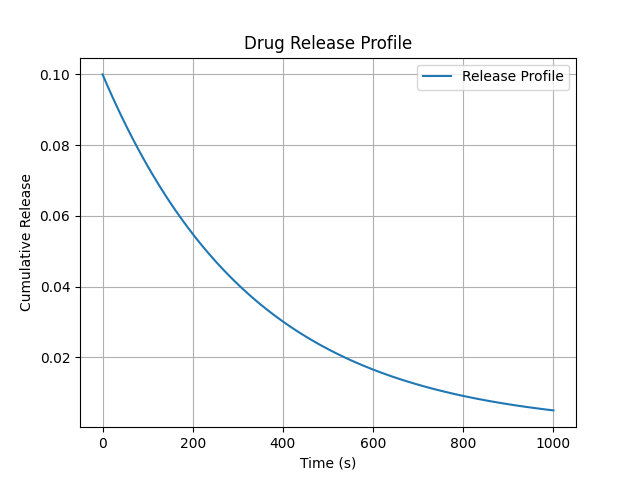
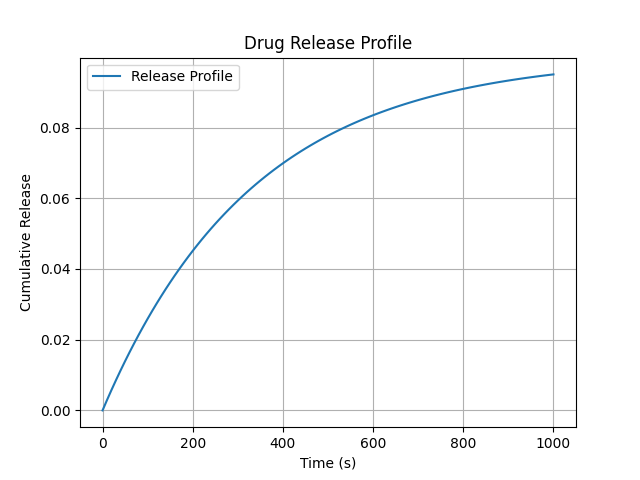
add tests

diff --git a/tests/test_first_order.py b/tests/test_first_order.py
@@ -1,0 +1,113 @@
+"""Tests for the first-order model implementation in drux package."""
+
+from pytest import raises
+from unittest import mock
+from numpy import isclose
+from re import escape
+from math import exp
+from drux import FirstOrderModel
+
+TEST_CASE_NAME = "first-order model tests"
+M0, k = 0.1, 0.003
+SIM_DURATION, SIM_TIME_STEP = 1000, 10
+RELATIVE_TOLERANCE = 1e-1
+
+
+def test_first_order_parameters():
+    model = FirstOrderModel(M0=M0, k=k)
+    assert model.params.M0 == M0
+    assert model.params.k == k
+
+def test_invalid_parameters():
+    with raises(ValueError, match=escape("Initial amount of drug in the solution (M0) must be non-negative.")):
+        FirstOrderModel(M0=-M0, k=k).simulate(duration=SIM_DURATION, time_step=SIM_TIME_STEP)
+
+    with raises(ValueError, match=escape("Release rate (k) must be non-negative.")):
+        FirstOrderModel(M0=M0, k=-k).simulate(duration=SIM_DURATION, time_step=SIM_TIME_STEP)
+
+
+def test_first_order_simulation():  # Reference: https://europepmc.org/article/pmc/3425064
+    model = FirstOrderModel(M0=M0, k=k)
+    profile = model.simulate(duration=SIM_DURATION, time_step=SIM_TIME_STEP)
+    actual_release = [M0 * (1 - exp(-k*t)) for t in range(0, 1001, 10)]
+    assert all(isclose(p, a, rtol=RELATIVE_TOLERANCE) for p, a in zip(profile, actual_release))
+
+
+def test_first_order_simulation_errors():
+    model = FirstOrderModel(M0=M0, k=k)
+
+    with raises(ValueError, match="Duration and time step must be positive values"):
+        model.simulate(duration=-100, time_step=10)
+
+    with raises(ValueError, match="Duration and time step must be positive values"):
+        model.simulate(duration=100, time_step=-10)
+
+    with raises(ValueError, match="Time step cannot be greater than duration"):
+        model.simulate(duration=10, time_step=20)
+
+
[email redacted]("matplotlib.pyplot.subplots")
+def test_first_order_plot(mock_subplots: mock.MagicMock):
+    mock_subplots.return_value = (mock.MagicMock(), mock.MagicMock())
+    model = FirstOrderModel(M0=M0, k=k)
+    model.simulate(duration=SIM_DURATION, time_step=SIM_TIME_STEP)
+
+    fig, ax = model.plot()
+    assert fig is not None
+    assert ax is not None
+    mock_subplots.assert_called_once()
+
+
+def test_first_order_plot_error():
+    model = FirstOrderModel(M0=M0, k=k)
+
+    with raises(ValueError, match=escape("No simulation data available. Run simulate() first.")):
+        model.plot()
+
+    model.time_points = [0]  # manually set time points to simulate error (TODO: it will be caught with prior errors)
+    # manually set a too short profile to simulate error (TODO: it will be caught with prior errors)
+    model.release_profile = [0.0]
+    with raises(ValueError, match="Release profile is too short to calculate release rate."):
+        model.plot()
+
+
+def test_first_order_release_rate():  # Reference: https://www.wolframalpha.com/input?i=get+the+derivative+of+M0*exp%28-k*t%29+with+respect+to+t
+    model = FirstOrderModel(M0=M0, k=k)
+    model.simulate(duration=SIM_DURATION, time_step=SIM_TIME_STEP)
+    rate = model.get_release_rate()
+    actual_rate = [k*M0*exp(-k*t) for t in range(0, 1001, 10)]
+    assert all(isclose(r, a, rtol=1e-1) for r, a in zip(rate, actual_rate))
+
+
+def test_first_order_release_rate_error():
+    model = FirstOrderModel(M0=M0, k=k)
+
+    with raises(ValueError, match=escape("No simulation data available. Run simulate() first.")):
+        model.get_release_rate()
+
+    model.time_points = [0]  # manually set time points to simulate error (TODO: it will be caught with prior errors)
+    # manually set a too short profile to simulate error (TODO: it will be caught with prior errors)
+    model.release_profile = [0.0]
+    with raises(ValueError, match="Release profile is too short to calculate release rate."):
+        model.get_release_rate()
+
+
+def test_first_order_time_for_release():  # Reference: https://www.wolframalpha.com/input?i=solve+for+t+in+0.1+*+%281+-+exp%28-0.003*t%29%29+%3D+0.5*+0.1+*+%281-+exp%28-0.003*1000%29%29
+    model = FirstOrderModel(M0=M0, k=k)
+    model.simulate(duration=SIM_DURATION, time_step=SIM_TIME_STEP)
+    tx = model.time_for_release(0.5 * model.release_profile[-1])
+    assert isclose(tx, 220, rtol=1e-2)
+
+
+def test_first_order_time_for_release_error():
+    model = FirstOrderModel(M0=M0, k=k)
+
+    with raises(ValueError, match=escape("No simulation data available. Run simulate() first.")):
+        model.time_for_release(0.5)
+    model.simulate(duration=SIM_DURATION, time_step=SIM_TIME_STEP)
+
+    with raises(ValueError, match="Target release must be non-negative."):
+        model.time_for_release(-0.1)
+
+    with raises(ValueError, match="Target release exceeds maximum release of the simulated duration."):
+        model.time_for_release(model.release_profile[-1] + 0.1)

diff --git a/drux/first_order.py b/drux/first_order.py
@@ -38,13 +38,13 @@ class FirstOrderModel(DrugReleaseModel):
         Calculate the drug release at time t using the first-order model.
 
         Formula:
-        - M(t) = M0 * exp(-k * t)
+        - M(t) = M0 * (1 - exp(-k * t))
         :param t: time (s)
         """
         M0 = self.params.M0
         k = self.params.k
 
-        Mt = M0*exp(-k*t)
+        Mt = M0 * (1 - exp(-k*t))
 
         return Mt
 

diff --git a/README.md b/README.md
@@ -141,7 +141,7 @@ model.plot(show=True)
 ### First-Order Model
 ```python
 from drux import FirstOrderModel
-model = FirstOrderModel(k=0.00, M0=0.1)
+model = FirstOrderModel(k=0.003, M0=0.1)
 model.simulate(duration=1000, time_step=10)
 model.plot(show=True)
 ```